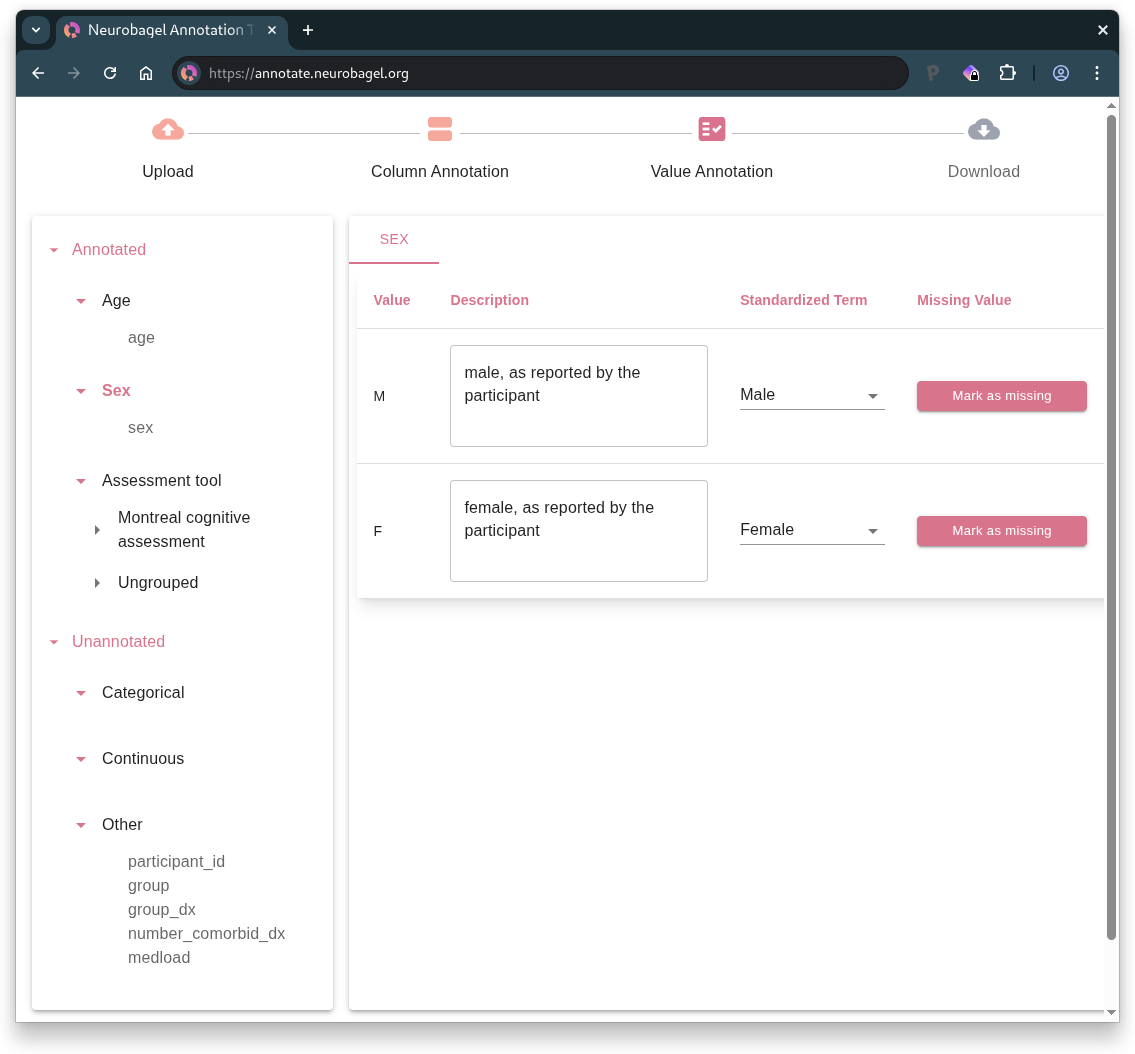
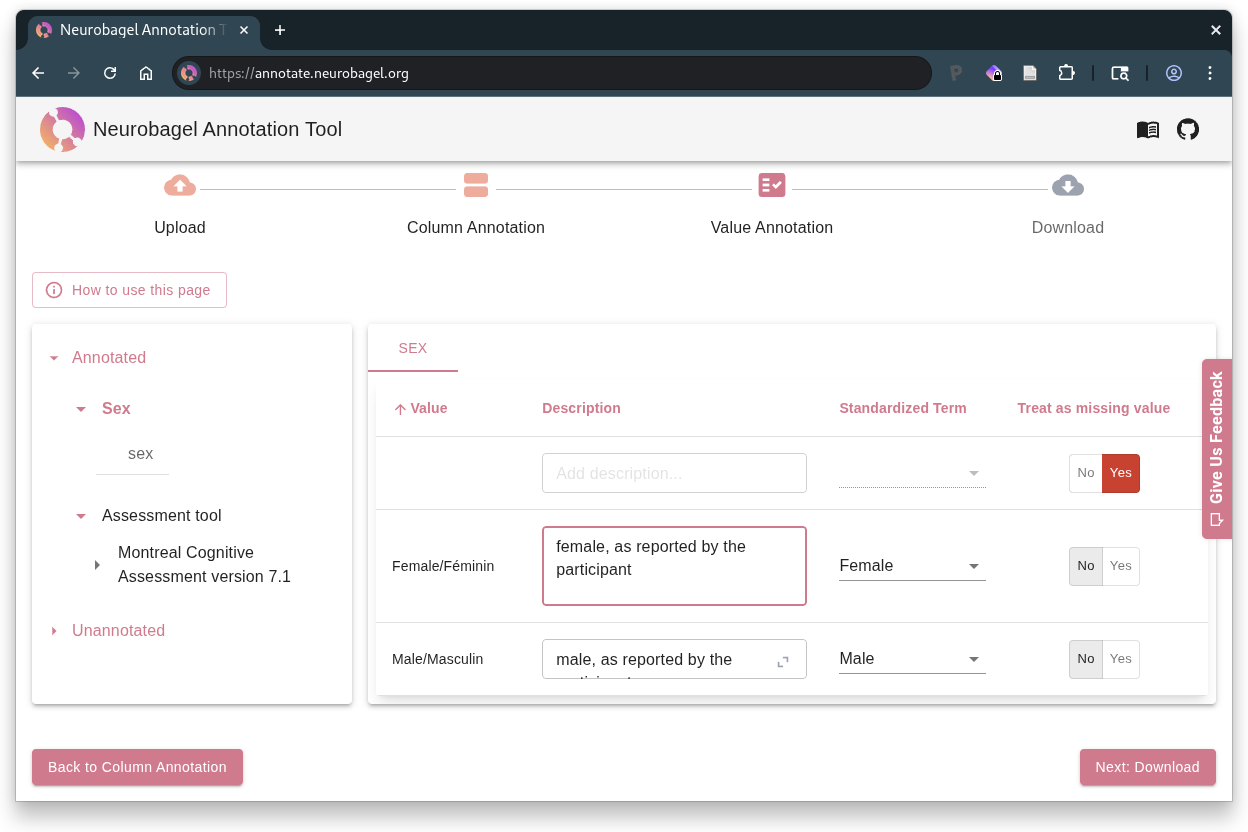
[ENH] Update column annotation docs (#399)
* update column annotation instructions and remove multi-column measure annotation docs

* Add updated figures

* Add assessment annotation screenshot

* upgrade pymdown-extensions to enable image caption syntax

* remove bold formatting and polish column annotation instructions

---------

diff --git a/docs/user_guide/annotation_tool.md b/docs/user_guide/annotation_tool.md
@@ -13,9 +13,9 @@ The Neurobagel annotation tool creates standardized, machine-readable data dicti
 
 ![Annotation tool upload step screenshot](../imgs/annotate/upload.png)
 
-- **Upload your [data table](data_prep.md)** (.tsv file)
+- Upload your [data table](data_prep.md) (.tsv file)
     - Can be `participants.tsv` from a BIDS dataset
-- **Optional**: Upload an existing data dictionary (.json file) for extra context
+- Optional: Upload an existing data dictionary (.json file) for extra context
     - Can use `participants.json` from a BIDS dataset
     - Or continue previous Neurobagel annotation work
 
@@ -23,42 +23,56 @@ In the following steps, you will annotate your table by first describing the col
 
 ## 2. Column Annotation
 
-![Annotation tool column annotation step screenshot](../imgs/annotate/column_annotation.png)
+![Annotation tool column annotation step screenshot - non-assessment variables](../imgs/annotate/column_annotation_non-assessment.png)
 
-Each column in your uploaded table is represented as a card on this page. For each column, you can:
+Each column in your uploaded table is represented as a card on the left side of this page.
+Select a column to annotate it.
 
-- **Add a description**
-- **Select the [standardized variable](../data_models/variables.md) that best describes the column from the dropdown** (if a suitable match exists)
-- **Select the data type**
+!!! tip
+    To select multiple columns, hold down ++shift++ , ++ctrl++ , or ++cmd++ .
+
+For each column, you can:
+
+- Add a description
+- Select the [standardized variable](../data_models/variables.md) that best describes the column (if a suitable match exists)
+    - First select the column(s) to map, and then select the corresponding variable name
+    from the "Standardized Variables" list on the right
+    - The number next to a standardized variable (:material-numeric-1-circle:) indicates how many columns are currently mapped to it
+
+    !!! info "Some standardized variables only allow 1 mapped column"
+        A standardized variable with a limit of 1 mapped column will appear disabled in the right sidebar once a column has been mapped to it.
+        To map a different column to the variable, first clear the mapping for the old column.
+
+- Select the assessment tool used to collect the column's data (if a suitable match exists)
+    - If a column contains information from an assessment, you can map it to a corresponding assessment term from the "Assessment Tool" list on the right
+    - First select the column(s) about the assessment, and then select the corresponding assessment term
+
+    !!! tip "Can't find a matching assessment term?"
+        The available assessment vocabulary may not cover all assessments collected in your data.
+        If no suitable match exists, consider providing the full assessment name in the "Description"
+        field of the relevant column(s) instead, for future reference.
+
+![Annotation tool column annotation step screenshot - collection variables](../imgs/annotate/multi_column_measures.png)
+/// caption
+Mapping columns to an assessment tool
+///
+
+- Select the data type
+    - To indicate the data type of the selected column(s), use the "Map Data Type" buttons above the columns table
     - Choose "Categorical" if the column contains discrete values, "Continuous" if it contains numerical measurements, or leave it empty if neither applies
-    - Columns mapped to standardized variables will have their data type inferred automatically
+    - Some standardized variables automatically set the data type of any column mapped to them
 
-!!! tip "When to manually select data type"
-    We recommend manually selecting the data type in two cases:
+    !!! tip "When to manually annotate data type"
+        We recommend manually selecting the data type in two cases:
 
-    1. When your column doesn't match any standardized variable
-    2. When your column matches the "Assessment tool" standardized variable (which does not have a predefined data type since it can represent multi-column measures)
+        1. When your column doesn't match any standardized variable
+        2. When your column corresponds to an assessment tool (since a single assessment can be represented by multiple columns with different data types, no default data type is assumed)
 
 ### If your dataset has imaging (BIDS) data
 
 The "Participant ID" standardized variable **must** be mapped to a column that contains the BIDS IDs for subjects, following the BIDS naming scheme `sub-<label>`.
 
 For more information, see [this section](data_prep.md#if-your-dataset-has-imaging-bids-data) on preparing the phenotypic data table for a BIDS dataset.
-
-### 2.1 Multi-column measure annotation
-
-!!! info
-    This step is only available if you have mapped columns in your data table to the "Assessment tool" standardized variable.
-
-![Annotation tool multi-column measures step screenshot](../imgs/annotate/multi_column_measures.png)
-
-The card on the right lists all columns from your data table that you have mapped to the "Assessment tool" standardized variable.
-
-1. Create a card for each assessment or instrument represented in your data by clicking :fontawesome-solid-circle-plus: and then selecting the name of the assessment from the dropdown list.
-    - If no suitable match exists, the available standardized vocabulary likely cannot currently represent your assessment.
-    - To avoid incomplete annotations, un-map any column(s) corresponding to missing assessments from the "Assessment tool" standardized variable using the :octicons-x-circle-fill-16: button in the overview card.
-2. Select the column(s) that describe each assessment, grouping together related columns as needed, using the dropdown on the respective assessment card.
-    - You can check remaining, ungrouped columns in the overview on the right.
 
 ## 3. Value Annotation
 ![Annotation tool value annotation step screenshot](../imgs/annotate/value_annotation.png)
@@ -108,9 +122,9 @@ For each unique column value, you can:
 ## 4. Download data dictionary
 ![Annotation tool download step screenshot](../imgs/annotate/download.png)
 
-- **Preview** your annotated data dictionary
-- **Download** the data dictionary `.json` file
-- **Annotate a new dataset** if desired
+- Preview your annotated data dictionary
+- Download the data dictionary `.json` file
+- Annotate a new dataset if desired
 
 !!! tip
     If you see a warning about "Incomplete Annotations", you will need to return to the Value Annotation page to complete any missing annotations before your data dictionary is valid for downstream Neurobagel tools.
